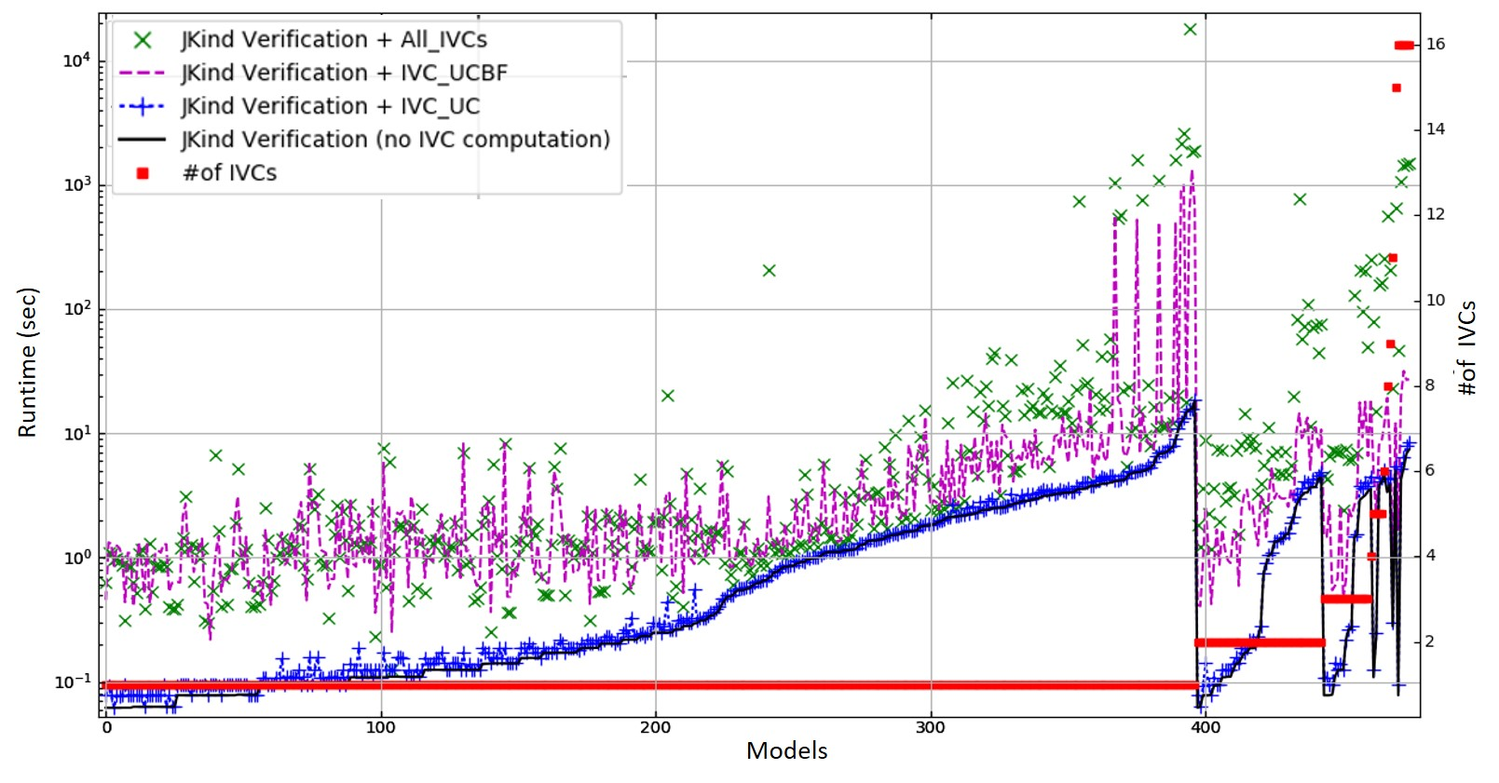
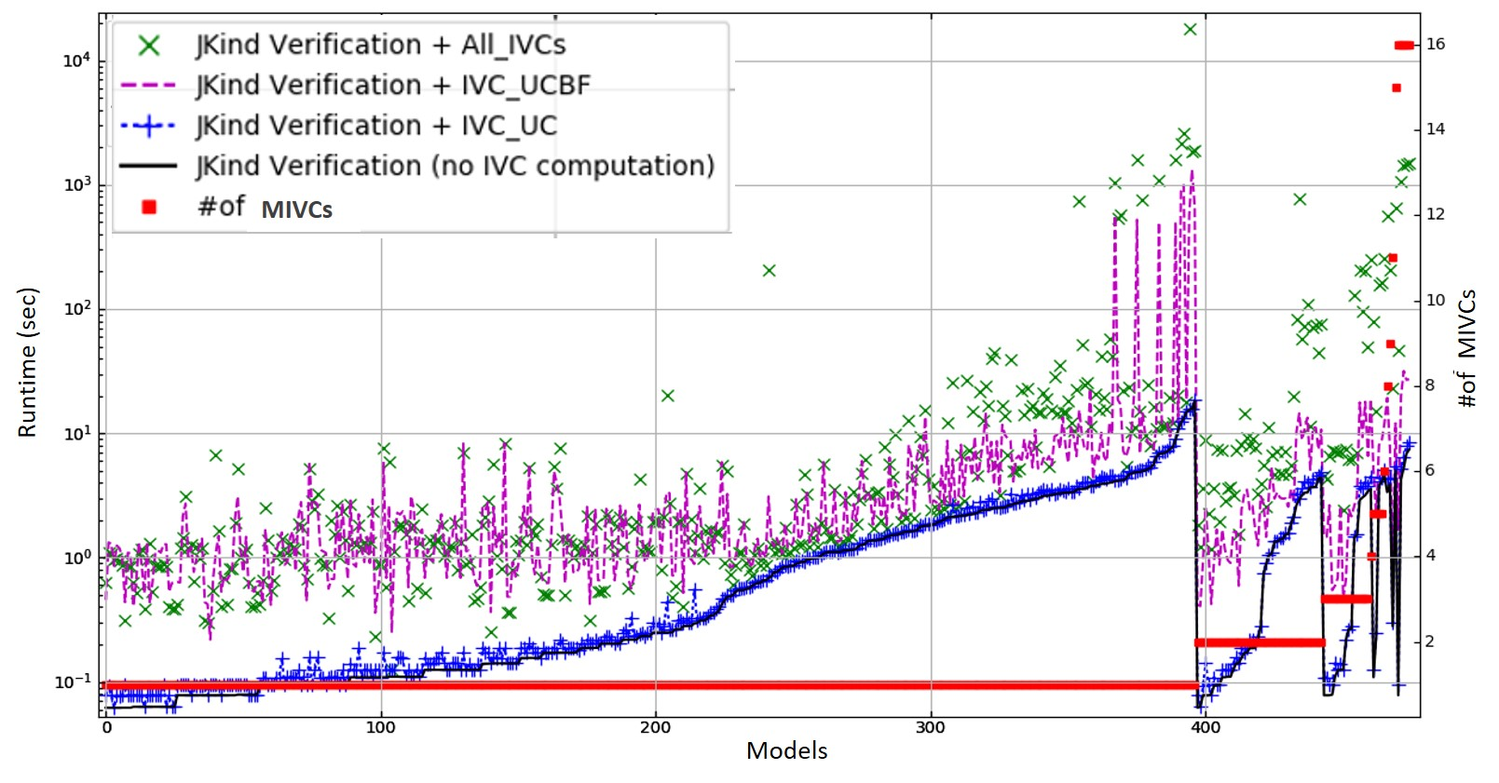
final changes

diff --git a/all_ivcs/all_ivcs_TEX/results.tex b/all_ivcs/all_ivcs_TEX/results.tex
@@ -1,4 +1,7 @@
-In this section, we examine our experimental results to address the research questions defined in the experiment.
+
+
+In this section, we examine our
+experimental results to address the research questions defined in the experiment.
 
 \begin{figure}[t]
  \centering
@@ -9,12 +12,15 @@ In this section, we examine our experimental results to address the research que
 \end{figure}
 %\vspace{0.1in}
 
-\subsubsection{RQ1:} 
+\subsubsection{RQ1:}
 
 To address RQ1, we measured the performance overhead of the various IVC algorithms against the baseline time
-necessary to find a proof using inductive model checking. Fig. \ref{fig:performance} provides an overview of the  overhead of the \aivcalg ~algorithm in comparison to the \ucalg ~and \ucbfalg\ algorithms.  In the figure, each curve is ranked along the x-axis according to the time required for the algorithm to terminate for each analysis problem.  Table \ref{tab:runtime} provides a summary of the computation time and the overhead of different algorithms.  As is evidenced by Fig. \ref{fig:performance}, the \ucalg\  algorithm imposes a negligible overhead over the baseline proof time, whereas both the \ucbfalg\ algorithm and \aivcalg\ algorithms add a substantial penalty over the baseline proof time.  We examine the performance of the \aivcalg\ algorithm both in terms of the time required to find all IVCs and also the time required divided by the number of IVCs found.  Somewhat surprisingly, for the majority of models, the latter measure outperforms the \ucbfalg\ algorithm for the majority of the models in the benchmark suite.
+necessary to find a proof using inductive model checking. Fig. \ref{fig:performance} provides an overview of the  overhead of the \aivcalg ~algorithm in comparison to the \ucalg ~and \ucbfalg\ algorithms.  In the figure, each curve is ranked along the x-axis according to the time required for the algorithm to terminate for each analysis problem.  Table \ref{tab:runtime} provides a summary of the computation time and the overhead of different algorithms.
+  As is evidenced by Fig. \ref{fig:performance}, the \ucalg\  algorithm imposes a negligible overhead over the baseline proof time, whereas both the \ucbfalg\ algorithm and \aivcalg\ algorithms add a substantial penalty over the baseline proof time.
+    We examine the performance of the \aivcalg\ algorithm both
+     in terms of the time required to find all MIVCs and also the time required divided by the number of MIVCs found.  Somewhat surprisingly, the latter measure outperforms the \ucbfalg\ algorithm for the majority of the models in the benchmark suite.
 
-The \aivcalg\ algorithm requires approximately 3.4x more time than the \ucbfalg\ algorithm, calculated in the following way: we measure the ratio of time required for each model for both metrics, then we take the mean of this ratio for all models.  It is important to note that these performance curves are sensitive to the timeout values chosen for individual proof-searches for IVCs (the \getivc\ step in \aivcalg\ and line 3 in the ``brute force'' algorithm in~\cite{Ghass16}).  This aspect will be discussed in more detail in Section~\ref{sec:experiment-discussion}.
+The \aivcalg\ algorithm requires approximately 3.4x more time than the \ucbfalg\ algorithm, calculated in the following way: we measure the ratio of time required for each model for both metrics, then we take the mean of this ratio for all models.  It is important to note that these performance curves are sensitive to the timeout values chosen for individual proof-searches for IVCs (the \getivc\ step in \aivcalg\ and line 3 in the \ucbfalg\ algorithm in~\cite{Ghass16}).  This aspect will be discussed in more detail in Section~\ref{sec:experiment-discussion}.
 
 %The \aivcalg ~algorithm could have had better (worse) performance
 % if timeout had been set lower (higher), which caused the average runtime (overhead) of the \aivcalg ~shown in Table \ref{tab:runtime} (Table \ref{tab:overhead}) to be $\thicksim 3$ times more than \ucbfalg .
@@ -70,7 +76,7 @@ Figure~\ref{fig:modelsize} shows two distinct trends.  First, for models whose b
  \centering
   \includegraphics[width=\textwidth]{figs/size.jpg}
   \vspace{-0.2in}
-  \caption{Runtime of different computations along with the number of IVCs}
+  \caption{Runtime of different computations along with the number of MIVCs}
   \label{fig:modelsize}
   \vspace{-0.2in}
 \end{figure}
@@ -86,6 +92,23 @@ Figure~\ref{fig:modelsize} shows two distinct trends.  First, for models whose b
 %although it does not guarantee minimality.
 %Fig. \ref{fig:ratio} also demonstrates that average cost of \aivcalg ~per IVC is very close to average cost of finding one IVC by \ucbfalg. Given the fact that the size of IVCs generated by \ucalg ~is very close to the ones generated by \ucbfalg, makes the \ucalg ~algorithm
 %more efficient for the \getivc ~procedure.
+\begin{table}
+  \caption{Size of IVCs from different computations}
+   \vspace{-0.1in}
+  \centering
+  \begin{tabular}{ |c||c|c|c|c| }
+    \hline
+     algorithm & min & max & mean & stdev \\[0.5ex]
+
+    \hline
+    \aivcalg   & 1 & 159 & 12.462 & 1.1684 \\[0.5ex]
+    \ucalg   & 1 & 141 & 12.754 & 16.000 \\[0.5ex]
+    \ucbfalg &   1 & 141 &  12.185 & 16.107\\[0.5ex]
+    \texttt{minimum IVC} & 1  & 134  & 12.078 & 15.550 \\[0.5ex]
+    \hline
+    \end{tabular}
+  \label{tab:ivcsize}
+\end{table}
 
  %\begin{figure}
 % \centering
@@ -97,29 +120,11 @@ Figure~\ref{fig:modelsize} shows two distinct trends.  First, for models whose b
 \subsection {Discussion}
 \label{sec:experiment-discussion}
 %\ela{rewrite...\\}
-\begin{table}
-  \caption{Size of IVCs from different computations}
-   \vspace{-0.1in}
-  \centering
-  \begin{tabular}{ |c||c|c|c|c| }
-    \hline
-     algorithm & min & max & mean & stdev \\[0.5ex]
+The experiment demonstrates that for most of the example models, finding all minimal IVCs is within the same ballpark as finding a single minimal IVC in terms of computation time.  However, these results are dependent on the number of minimal IVCs that are associated with the property: the more MIVCs associated with a property, the higher the expense of \aivcalg\ as compared to the \ucbfalg\ algorithm.
 
-    \hline
-    \ucalg   & 1 & 141 & 12.754 & 16.000 \\[0.5ex]
-    \ucbfalg &   1 & 141 &  12.185 & 16.107\\[0.5ex]
-    \aivcalg   & 1 & 159 & 12.462 & 1.1684 \\[0.5ex]
-    \aivcalg\ minimum IVC & 1  & 134  & 12.078 & 15.550 \\[0.5ex]
-    \hline
-    \end{tabular}
-  \label{tab:ivcsize}
-\end{table}
+An important aspect of the performance comparison involves the timeout value chosen for individual IVC computations performed by \getivc\ within the \aivcalg\ algorithm and also the behavior of the SMT solvers with different sets of activation literals.  Each time we call \getivc\ we attempt to do a ``fresh'' proof from a new set of activation literals.  As we approach minimal IVCs, these proofs can become substantially harder for the solver to determine than the original proof, often involving more lemmas for information that was originally present in the model.  Thus, for complex models, it often happens that we reach the `timeout' case in both the \aivcalg\ and \ucbfalg\ algorithms, which may cause both algorithms to reject valid IVC solutions that are smaller than what is reported as a minimal IVCs, since both algorithms treat timeout-as-failure.  We have empirically set timeout values for a given proof search to (60 seconds $+$ 10 $\times$ {\em proof-time}) for the initial proof over the whole model. Our timeout threshold is somewhat arbitrary, and it is likely that the performance and minimality results would change if a different threshold was chosen.
 
-The experiment demonstrates that for most of the example models, finding all minimal IVCs is within the same ballpark as finding a single minimal IVC in terms of computation time.  However, these results are dependent on the number of minimal IVCs that are associated with the property: the more MIVCs associated with a property, the higher the expense of \aivcalg\ as compared to the \ucbfalg\ algorithm.  
-
-An important aspect of the performance comparison involves the timeout value chosen for individual IVC computations performed by \getivc\ within the \aivcalg\ algorithm and also the behavior of the SMT solvers with different sets of activation literals.  Each time we call \getivc\ we attempt to do a ``fresh'' proof from a new set of activation literals.  As we approach minimal IVCs, these proofs can become substantially harder for the solver to determine than the original proof, often involving more lemmas for information that was originally present in the model.  Thus, for complex models, it often happens that we reach the `timeout' case in both the \aivcalg\ and \ucbfalg\ algorithms, which may cause both algorithms to reject valid IVC solutions that are smaller than what is reported as a minimal IVCs, since both algorithms treat timeout-as-failure.  We have empirically set timeout values for a given proof search to 60 seconds + 10 $*$ {\em proof-time} for the initial proof over the whole model. Our timeout threshold is somewhat arbitrary, and it is likely that the performance and minimality results would change if a different threshold was chosen.  Table~\ref{tab:ivcsize} shows that although the minimum IVC size is smaller with the \aivcalg, it is very close to the \ucbfalg\ result.
-
-Worse, because the \ucbfalg\ and \aivcalg\ algorithms submit different profiles in terms of activation literals, the solvers sometimes can solve an IVC problem for one algorithm but not the other.  This leads to some cases where the \ucbfalg\ algorithm finds a {\em smaller} IVC than the \aivcalg\ algorithm, because the \aivcalg\ algorithm times out attempting to find a MIVC that was found by the \ucbfalg.  This is shown in Fig.~\ref{fig:min}, where in 14 out of 476 models, \ucbfalg\ finds a smaller MIVC than the minimum IVC found by \aivcalg.  Of course, in 11 other cases,the \aivcalg\ finds substantially smaller minimum IVCs than \ucbfalg.  
+Worse, because the \ucbfalg\ and \aivcalg\ algorithms submit different profiles in terms of activation literals, the solvers sometimes can solve an IVC problem for one algorithm but not the other.  This leads to some cases where the \ucbfalg\ algorithm finds a {\em smaller} IVC than the \aivcalg\ algorithm, because the \aivcalg\ algorithm times out attempting to find a MIVC  that was found by the \ucbfalg.  This is shown in Fig.~\ref{fig:min}, where in 14 out of 476 models, \ucbfalg\ has found a smaller MIVC  than the minimum IVC found by \aivcalg.  Of course, in many more cases, the \aivcalg\ and \ucbfalg\ algorithms computed the same size of IVCs because the majority of the models only contain one minimal IVC. However, for 11 models,~\aivcalg\ has found a smaller minimum IVC than the \ucbfalg .
 
  \begin{figure}
  \centering

diff --git a/all_ivcs/all_ivcs_TEX/eval.tex b/all_ivcs/all_ivcs_TEX/eval.tex
@@ -10,10 +10,10 @@ This section evaluates our approach by addressing the following research questio
 
 \subsection{Analytical Results}
 \label{sec:res}
-This section addresses the aforementioned research questions briefly describing the way the results were analyzed. In general, for timing analyses, from all 13 configurations, we only considered the settings where both \texttt{PDR} and \texttt{K-induction} engines were activated. Since this configuration is a default setting in \texttt{\texttt{JKind}}, we only care about timing while both engines are employed. Therefore, $(4 \times 405) = 1620$ of all 5265 runs have been analyzed to address time-efficiency questions.
+This section addresses the aforementioned research questions briefly describing the way the results were analyzed. In general, for timing analyses, from all 13 configurations, we only considered the settings where both \texttt{PDR} and \texttt{$K$-induction} engines were activated. Since this configuration is a default setting in \texttt{\texttt{JKind}}, we only care about timing while both engines are employed. Therefore, $(4 \times 405) = 1620$ of all 5265 runs have been analyzed to address time-efficiency questions.
 \ela{remove this line if removing the Result section: }
 Note that  the results of 10 models with unprovable properties were omitted in calculations. In addition,
- while analyzing support sets, \texttt{K-induction} settings that timed out were not considered because they failed to prove the properties.
+ while analyzing support sets, \texttt{$K$-induction} settings that timed out were not considered because they failed to prove the properties.
 
 In the following, we will address the research questions from different perspectives, in most of which significance testing along with Cohen's $d$ effect size (ES), has been used. Also, dissimilarity between sets was measured using Jaccard distance:
 \begin{definition}{\emph{Jaccard distance:}}
@@ -53,7 +53,7 @@ In the following, we will address the research questions from different perspect
 }
  \vspace{6pt}
 
-In addition to overhead, it is also important to know how efficiently \texttt{ReduceSupport} performs on computing set of support in comparison with \texttt{JSupport}. For 405 models, runtime of support computation in the configurations where both \texttt{K-induction} and \texttt{PDR} were activated has been collected. Fig~\ref{fig:runtimez3} and Fig~\ref{fig:runtimeall} visualize the results. Fig~\ref{fig:runtimez3} shows the running time of \texttt{\texttt{JKind}} with and without support computation while employing \texttt{Z3}. As you can see in Fig~\ref{fig:runtimeall}, \texttt{JSupport} is a lot more time-consuming than all \texttt{ReduceSupport} configurations.
+In addition to overhead, it is also important to know how efficiently \texttt{ReduceSupport} performs on computing set of support in comparison with \texttt{JSupport}. For 405 models, runtime of support computation in the configurations where both \texttt{$K$-induction} and \texttt{PDR} were activated has been collected. Fig~\ref{fig:runtimez3} and Fig~\ref{fig:runtimeall} visualize the results. Fig~\ref{fig:runtimez3} shows the running time of \texttt{\texttt{JKind}} with and without support computation while employing \texttt{Z3}. As you can see in Fig~\ref{fig:runtimeall}, \texttt{JSupport} is a lot more time-consuming than all \texttt{ReduceSupport} configurations.
 
 \begin{figure}
   \centering
@@ -132,14 +132,14 @@ Since \texttt{JSupport}, with a great percentage, most of the time computed the 
 %\begin{figure}
 %  \centering
 %  \includegraphics[width=\textwidth]{figs/minimality_kind.png}
-%  \caption{\small{Minimality comparison of \texttt{K-induction}}}\label{fig:minkind}
+%  \caption{\small{Minimality comparison of \texttt{$K$-induction}}}\label{fig:minkind}
 %\end{figure}
 %
 %
 %\begin{figure}
 %  \centering
 %  \includegraphics[width=\textwidth]{figs/minimality_both.png}
-%  \caption{\small{Minimality comparison of \texttt{K-induction} and \texttt{PDR} working together}}\label{fig:minboth}
+%  \caption{\small{Minimality comparison of \texttt{$K$-induction} and \texttt{PDR} working together}}\label{fig:minboth}
 %\end{figure}
 %
 %
@@ -149,7 +149,7 @@ Since \texttt{JSupport}, with a great percentage, most of the time computed the 
 %     \hline
 %     configuration & min & max & mean & stdev & effect size& p-value \\[0.5ex]
 %     \hline\hline
-%     K-induction & -2 & 28 & 0.542 & 1.831 & 0 & < 0.0\\[0.5ex]
+%     $K$-induction & -2 & 28 & 0.542 & 1.831 & 0 & < 0.0\\[0.5ex]
 %     PDR & -2 & 28 & 0.677 & 1.819 & 0 & < 0.0\\[0.5ex]
 %     Both engines & -2 & 28 & 0.661 & 1.751 & 0 & < 0.0\\[0.5ex]
 %     \hline
@@ -177,7 +177,7 @@ Since \texttt{JSupport}, with a great percentage, most of the time computed the 
      \hline
      configuration & mean & stdev & ES & p-value \\[0.5ex]
      \hline\hline
-     K-induction  & 0.542 & 1.831 & 0.80 & < 0.00001\\[0.5ex] %sample_size = 1132 z = -8.03
+     $K$-induction  & 0.542 & 1.831 & 0.80 & < 0.00001\\[0.5ex] %sample_size = 1132 z = -8.03
      PDR & 0.677 & 1.819 & 0.73 & < 0.00001\\[0.5ex] %sample_size = 1580 (39.74)  z = -28.9
      Both engines & 0.661 & 1.751 & 0.76 & < 0.00001\\[0.5ex]
      \hline
@@ -232,7 +232,7 @@ Since \texttt{JSupport}, with a great percentage, most of the time computed the 
   \item H1: \texttt{ReduceSupport} in all configurations computes sets that are very close to minimal (with an average Jaccard distance less than 0.2).
 \end{itemize}
 
-Table~\ref{tab:jsupconf} represents the result of this analysis; for example, configuration \emph{(Z3, Both)}, shows that \texttt{\texttt{JKind}} with \texttt{Z3} and both \texttt{K-induction} and \texttt{PDR} engines has an average Jaccard distance of 0.106 (in 405 models) from \texttt{JSupport}.
+Table~\ref{tab:jsupconf} represents the result of this analysis; for example, configuration \emph{(Z3, Both)}, shows that \texttt{\texttt{JKind}} with \texttt{Z3} and both \texttt{$K$-induction} and \texttt{PDR} engines has an average Jaccard distance of 0.106 (in 405 models) from \texttt{JSupport}.
 
 
 \begin{table}
@@ -244,19 +244,19 @@ Table~\ref{tab:jsupconf} represents the result of this analysis; for example, co
     % sample size = 405 - 18 = 387    sample size for k_ind = 405 - 18 - 112 = 275
     %
     Z3, Both  & 0.106 & 0.155 & 0.49 & < 0.00001\\[0.5ex] %z = 11.93
-    Z3, K-induction & 0.116 & 0.168 & 0.50 & < 0.00001\\[0.5ex]
+    Z3, $K$-induction & 0.116 & 0.168 & 0.50 & < 0.00001\\[0.5ex]
     z3, PDR  & 0.102 & 0.151 & 0.64 & < 0.00001\\[0.5ex]
     \hline
     Yices, Both & 0.104 & 0.152 & 0.63& < 0.00001 \\[0.5ex]
-    Yices, K-induction  & 0.114 & 0.166 & 0.52 & < 0.00001 \\[0.5ex]
+    Yices, $K$-induction  & 0.114 & 0.166 & 0.52 & < 0.00001 \\[0.5ex]
     Yices, PDR  & 0.098 & 0.147 & 0.69 & < 0.00001\\[0.5ex]
     \hline
     SMTInterpol, Both  & 0.103 & 0.152 & 0.63 & < 0.00001\\[0.5ex]
-    SMTInterpol, K-induction  & 0.115 & 0.167 & 0.49 & < 0.00001\\[0.5ex]
+    SMTInterpol, $K$-induction  & 0.115 & 0.167 & 0.49 & < 0.00001\\[0.5ex]
     SMTInterpol, PDR  & 0.101 & 0.149 & 0.66 & < 0.00001\\[0.5ex]
     \hline
     MathSAT, Both  & 0.106 & 0.156 & 0.60 & < 0.00001\\[0.5ex]
-    MathSAT, K-induction & 0.115 & 0.167 &0.51 & < 0.00001\\[0.5ex]
+    MathSAT, $K$-induction & 0.115 & 0.167 &0.51 & < 0.00001\\[0.5ex]
     MathSAT, PDR & 0.100 & 0.148 & 0.68  &< 0.00001\\[0.5ex]
     \hline
   \end{tabular}
@@ -359,7 +359,7 @@ Table~\ref{tab:jsupconf} represents the result of this analysis; for example, co
   \label{tab:eff-comp-jsup}
 \end{table}
 
-%For calculations, we considered all settings where both \texttt{K-induction} and \texttt{PDR} were activated
+%For calculations, we considered all settings where both \texttt{$K$-induction} and \texttt{PDR} were activated
 % then in for all 405 models in everything, we collected runtime info, then calculated min/max/avg/stdev between them
 % in other words, there were 4 settings to be considered: z3_both, yices_both, mathsat_both, smtinterpol_both
 

diff --git a/all_ivcs/all_ivcs_TEX/experiments.tex b/all_ivcs/all_ivcs_TEX/experiments.tex
@@ -6,7 +6,7 @@
 \noindent\fbox{\parbox{\textwidth}{#1}}
 \vspace{6pt}
 }
-We are interested in examining the {\em efficacy} and {\em efficiency} of generating all minimal inductive validity cores, as compared to algorithms for computing a {\em single approximately minimal} IVC, and a {\em minimal IVC} as implemented in~\cite{Ghass16} using the \ucalg\ and \ucbfalg\ algorithms, respectively.  We would also like to know how performance is affected by the size of models and number of minimal IVCs.  Finally, we are also interested in determining whether the AIVC approach generates {\em smaller} cores than are generated by the \ucbfalg\ algorithm that generates a single \mivc.  %If the AIVC algorithm is similarly efficient to \ucbfalg\ then several analyses can be performed that would not be possible with a single \mivc\computed from the \ucbfalg\ algorithm.
+We are interested in examining the {\em efficacy} and {\em efficiency} of generating all minimal inductive validity cores, as compared to algorithms for computing a {\em single approximately minimal} IVC, and a {\em minimal IVC} as implemented in~\cite{Ghass16} using the \ucalg\ and \ucbfalg\ algorithms, respectively.  We would also like to know how performance is affected by the size of models and number of minimal IVCs.  Finally, we are also interested in determining whether the \aivcalg\ algorithm generates {\em smaller} cores than are generated by the \ucbfalg\ algorithm that generates a single MIVC.  %If the AIVC algorithm is similarly efficient to \ucbfalg\ then several analyses can be performed that would not be possible with a single \mivc\computed from the \ucbfalg\ algorithm.
 %
 %
 Therefore, we investigate the following research questions:
@@ -23,7 +23,7 @@ Therefore, we investigate the following research questions:
 \subsection{Experimental Setup}
 Our experiment used the same benchmark suite as \cite{Ghass16} to enable straightforward comparison between the approaches. The benchmark contains 476 Lustre models  from~\cite{Hagen08:FMCAD} and \cite{QFCS15:backes,hilt2013}.
 Most of the benchmark models from~\cite{Hagen08:FMCAD} are small (10kB or less, with 6-40 equations) and include a range of hardware benchmarks and software problems involving counters that are difficult to solve inductively.
-The models from \cite{QFCS15:backes,hilt2013} are industrial models with over 600 equations and each are approximately 80kB in size.  Each benchmark model has a single property to analyze.  For each test model, we computed \aivcalg , \ucalg , and \ucbfalg ~algorithms in a configuration with the \texttt{Z3} solver and the ``fastest'' mode of \texttt{JKind} (which involves running the K-induction and PDR engines in parallel and terminating when a solution is found). The experiments were run on an  Intel(R) i5-4690, 3.50GHz, 16 GB memory machine running Windows 10.
+The models from \cite{QFCS15:backes,hilt2013} are industrial models with over 600 equations and each are approximately 80kB in size.  Each benchmark model has a single property to analyze.  For each test model, we computed \aivcalg , \ucalg , and \ucbfalg ~algorithms in a configuration with the \texttt{Z3} solver and the ``fastest'' mode of \texttt{JKind} (which involves running the $k$-induction and PDR engines in parallel and terminating when a solution is found). The experiments were run on an  Intel(R) i5-4690, 3.50GHz, 16 GB memory machine running Windows 10.
 %\footnote{\noindent ~The benchmarks, all raw experimental results,
 %  and computed data are available on \cite{expr}.}
 

diff --git a/all_ivcs/all_ivcs_TEX/main.tex b/all_ivcs/all_ivcs_TEX/main.tex
@@ -82,7 +82,7 @@
 \newcommand{\ucbfalg}{\texttt{\small{IVC\_UCBF}}}
 
 
-\title{Efficient Generation of All Inductive Validity Cores}
+\title{Efficient Generation of All Minimal Inductive Validity Cores}
 
 \author{Elaheh Ghassabani\inst{1}
 \and Michael W. Whalen\inst{1}
@@ -100,10 +100,13 @@ Cedar Rapids, IA, 52498, USA\\ \email{ andrew.gacek@rockwellcollins.com}
 \maketitle
 
 \begin{abstract}
-Symbolic model checkers can construct proofs of safety properties over complex models, but the results reported when a proof succeeds do not generally provide much insight to the user.  Recently, the notion of an {\em inductive validity core} (IVC) was introduced in order to trace a property to a minimal set of model elements necessary for proof.  IVCs can be used for several engineering tasks, including traceability, vacuity detection, and as a completeness metric for requirements.  
-%Previous work showed that it was computationally inexpensive to find an approximately minimal IVCs, and somewhat more expensive to compute a minimal IVC.
+Symbolic model checkers can construct proofs of safety properties over complex models, but the results reported when a proof succeeds do not generally provide much insight to the user.  Recently, the notion of a minimal {\em Inductive Validity Core} (IVC) was introduced to trace a property to a minimal set of model elements necessary for proof.  Minimal IVCs can be used for several engineering tasks, including traceability, vacuity detection, and as a coverage metric for property-based verification. Such applications usually rely on the minimality of IVCs. However, existing algorithms for generating a minimal IVC are either expensive or able to find an approximately
+minimal IVC.
 
-In this paper, we describe an approach for finding {\em all} IVCs for a given property.  In so doing, several additional analyses become possible, including regression analysis for testing and proof, determination of the minimum (as opposed to minimal) number of model elements necessary for proof, and the systematic examination of {\em diversity} of model elements leading to proof, which can be used for analyzing the fault tolerance of models.  We prove the correctness and completeness of our technique and benchmark our algorithm against single IVC-generating algorithms.  In many cases, the computational cost of finding all minimal IVCs is similar to finding a single minimal IVC.
+In addition to minimality, computing all minimal IVCs of a given
+property is an interesting problem that provides several useful analyses, including regression analysis for testing and proof, determination of the minimum (as opposed to minimal) number of model elements necessary for proof, and the systematic examination of {\em diversity} of model elements leading to proof, which can be used for analyzing the fault tolerance of models.
+
+This paper proposes an efficient method for finding {\em all minimal} IVCs of a given property. We prove the correctness and completeness of our technique and benchmark our algorithm against existing IVC-generating algorithms.  We show that, in many cases, the computational cost of finding all minimal IVCs by our technique is similar to finding a single minimal IVC using existing algorithms.
 \end{abstract}
 
 \keywords{Inductive Validity Cores, UNSAT-core generation, SMT-based model checking, Inductive proofs}

diff --git a/all_ivcs/all_ivcs_TEX/introduction.tex b/all_ivcs/all_ivcs_TEX/introduction.tex
@@ -4,8 +4,9 @@ Most modern sequential model checking techniques for safety properties, includin
 
 On the other hand, there many situations in which properties can be proved, but systems still will not perform as intended.  Issues such as vacuity~\cite{Kupferman03:Vacuity}, incorrect environmental assumptions~\cite{Whalen07:FMICS}, and errors either in English language requirements or formalization~\cite{Pike06:axioms} can all lead to failures of ``proved'' systems.  Thus, even if proofs are established, one must approach verification with skepticism.
 
-Recently, Ghassabani et al.~\cite{Ghass16} introduced the idea of {\em inductive validity cores} (IVCs) in order to provide additional information with proofs.  The idea lifts UNSAT cores~\cite{zhang2003extracting} to the level of sequential model checking algorithms using induction.  Informally, if a model is viewed as a conjunction of constraints, a minimal IVC (MIVC) is a set of constraints that is sufficient to construct a proof such that if any constraint is removed, the property is no longer valid. IVCs and MIVCs can be used for several purposes, including performing traceability between requirements and model constraints, assessing model coverage, and explanation of unsatisfiable test obligations when using model checkers for test case generation.%~\mike{should we expand these?}
-This work presented two algorithms: \ucalg, which computes an approximately minimal IVC core that is computationally inexpensive, and \ucbfalg, an algorithm that produces a MIVC but is considerably more expensive to compute. %\ela{I have hard time reading the last sentence. Is the grammar correct?}
+Recently, Ghassabani et al.~\cite{Ghass16} introduced the idea of {\em Inductive Validity Cores} (IVCs) in order to provide additional information with proofs.  The idea lifts UNSAT cores~\cite{zhang2003extracting} to the level of sequential model checking algorithms using induction.  Informally, if a model is viewed as a conjunction of constraints, a minimal IVC (MIVC) is a set of constraints that is sufficient to construct a proof such that if any constraint is removed, the property is no longer valid. IVCs and MIVCs can be used for several purposes, including performing traceability between requirements and model constraints, assessing model coverage, and explanation of unsatisfiable test obligations when using model checkers for test case generation. This work presented two algorithms: \ucalg, which computes an approximately minimal IVC that is computationally inexpensive, and \ucbfalg,
+an algorithm that produces a
+MIVC but is considerably more expensive to compute.
 %
 The IVC idea shares many similarities with approaches for computing minimal lemma sets for inductive proofs (such as is performed for inductive proof certificates~\cite{piskac2016, ivrii2014small}), and in fact the \ucalg\ algorithm performs a minimal lemma set computation.  However, there is a substantive difference: to find a guaranteed minimal set of constraints, it is usually necessary to find new proofs involving {\em new lemmas} not used in the original proof, which accounts for the expense of the \ucbfalg\ algorithm.
 

diff --git a/all_ivcs/all_ivcs_TEX/conclusion.tex b/all_ivcs/all_ivcs_TEX/conclusion.tex
@@ -1,10 +1,10 @@
 \section{Conclusions \& Future Work}
 \label{sec:conc}
 The idea of extracting a minimal IVC for a given property, and applications for doing so was recently introduced in \cite{Ghass16}.  However, a single IVC often does not provide a complete picture of the traceability from a property to a model.  In this paper, we have addressed the problem of extracting {\em all minimal} IVCs. We have shown
-the correctness and completeness of our method and algorithm.  In addition, we have a substantial evaluation that shows that the performance of finding all minimal IVCs is (on average) 3.4x more expensive than finding a single minimal IVC.
+the correctness and completeness of our method and algorithm.  In addition, we have a substantial evaluation that shows that the performance of finding all minimal IVCs using our method is (on average) 3.4x more expensive than finding a single minimal IVC using existing methods.
 
-Our method is inspired by a recent work in the domain of satisfiability analysis \cite{marco2016fast}. One interesting future direction is to devise similar \mivc\ enumeration algorithms based on other studies on MUSes extraction such as \cite{Bacchus2016, nadel2014accelerated}.  We are also looking into improving our implementation by using more  efficient methods for the \isadeq ~and \getivc ~modules used by our algorithm. Another interesting direction is to parallelize the enumeration process: it is certainly possible to ask for multiple distinct maximal models to be solved in parallel, though this may result in unnecessary work performed by some of the parallel solvers.
+Our method is inspired by a recent work in the domain of satisfiability analysis \cite{marco2016fast}. One interesting future direction is to devise similar MIVC enumeration algorithms based on other studies on MUSes extraction such as \cite{Bacchus2016, nadel2014accelerated}.  We are also looking into improving our implementation by using more  efficient methods for the \isadeq ~and \getivc ~modules used by our algorithm. Another interesting direction is to parallelize the enumeration process: it is certainly possible to ask for multiple distinct maximal models to be solved in parallel, though this may result in unnecessary work performed by some of the parallel solvers.
 
 We also plan to investigate additional applications of the idea for software engineering activities.  When performing {\em compositional verification} of a software architecture, All-IVC techniques may be able to determine {\em minimal component sets} within an architecture that can satisfy a given set of requirements, which may be helpful for design-space exploration.
 %
-Finally, we are interested in adapting the notion of (all) validity cores for bounded model checking for use in quantifying how much of models have been explored by bounded analysis. 
+Finally, we are interested in adapting the notion of (all) validity cores for bounded model checking for quantifying how much of models have been explored by bounded analysis. 

diff --git a/all_ivcs/all_ivcs_TEX/background.tex b/all_ivcs/all_ivcs_TEX/background.tex
@@ -29,7 +29,7 @@ T$ means that $T_i$ is a top-level conjunct of $T$, and $S
 \subseteq T$ means all top-level conjuncts of $S$ are top-level
 conjuncts of $T$. When a top-level conjunct $T_i$ is removed from $T$, it is written as $T \setminus \{T_i\}$. Such a transition system can easily encode our example model in Section~\ref{sec:example}, where each equation defines a conjunct within $T$ that we will denote by the variable assigned; so, $T = \{$ {\small \texttt{a1\_below, a2\_below, a1\_above, a2\_above, one\_below, both\_above, doi\_on, on\_p}} $\}$.
 
-The idea behind finding an IVC for a given property $P$ \cite{Ghass16} is based on inductive proof methods used in SMT-based model checking, such as K-induction and IC3/PDR \cite{NFM2012:KaGaTiWh, amla2005analysis, Een2011:PDR}. Generally, an IVC computation technique aims to determine, for any subset $S \subseteq T$, whether $P$ is provable by $S$. Then, a minimal subset that satisfies $P$ is seen as a minimal proof explanation called a minimal Inductive Validity Core.
+The idea behind finding an IVC for a given property $P$ \cite{Ghass16} is based on inductive proof methods used in SMT-based model checking, such as $K$-induction and IC3/PDR \cite{NFM2012:KaGaTiWh, amla2005analysis, Een2011:PDR}. Generally, an IVC computation technique aims to determine, for any subset $S \subseteq T$, whether $P$ is provable by $S$. Then, a minimal subset that satisfies $P$ is seen as a minimal proof explanation called a minimal Inductive Validity Core.
 
 \begin{definition}{\emph{Inductive Validity Core (\ivc)\cite{Ghass16}:}}
   \label{def:ivc}
@@ -53,7 +53,7 @@ Note that, given $(I, T) \vdash P$, $P$ always has at least one \mivc, and it ma
 
 Fig.~\ref{fig:ivcs} illustrates these notions by a graphical representation of IVCs for property $P = (\small{\texttt{on\_p}})$ in the example presented in Section~\ref{sec:example}. As shown in the picture, this property has two distinct \mivc s, which means the model satisfies $P$ in two different ways:  \texttt{\{\{a1\_below, one\_below, doi\_on, on\_p\}, \{a2\_below, one\_below, doi\_on, on\_p\}\}}, This is because in the implementation, the DOI is turned on when either of the altimeters is below the threshold, while our property states that they both must be below.
 Note that there is a subset of model elements, $\{{\small \texttt{a1\_above, a2\_above, both\_above}}\}$, that does not show up in $AIVC(P)$. Elements in such a subset
-do not affect the satisfaction of $P$.  In the complete ASW model in~\cite{HCW02:ase-deviation} there are additional properties that use these elements, but they are not necessary for the discussion in this paper.   
+do not affect the satisfaction of $P$.  In the complete ASW model in~\cite{HCW02:ase-deviation} there are additional properties that use these elements, but they are not necessary for the discussion in this paper.
 
 %As you can see, distinct IVCs may have common elements.
 %The intersection of all \mivc s is called the \emph{must} set for $P$.

diff --git a/all_ivcs/all_ivcs_TEX/allivcs.tex b/all_ivcs/all_ivcs_TEX/allivcs.tex
@@ -341,7 +341,7 @@ From \cite{Ghass16}, it is computationally cheap to find an
 approximately minimal \ivc\ using the algorithm \ucalg; however, finding a {\em guaranteed}
 minimal \ivc\ using the \ucbfalg\ algorithm is computationally expensive.  For efficiency
 reasons, it is much better to use the approximate \ucalg\ algorithm to compute the set of
-all \mivc s.  The \ucbfalg\ algorithm attempts to repeatedly prove the property by brute-force removing elements (BF = ``brute force''), so does much of the work of Algorithm~\ref{alg:aivc} in a way that is not effective towards finding other IVCs.  The overhead of the \ucalg\ algorithm is on average 10\% over the baseline proof, as opposed to 882\% for the \ucbfalg\ algorithm.  In addition, the average increase in size of IVCs returned by \ucalg\ is approximately 10\% of the \ucbfalg\ algorithm. 
+all \mivc s.  The \ucbfalg\ algorithm attempts to repeatedly prove the property by brute-force removing elements (BF = ``brute force''), so does much of the work of Algorithm~\ref{alg:aivc} in a way that is not effective towards finding other IVCs.  The overhead of the \ucalg\ algorithm is on average 10\% over the baseline proof, as opposed to 882\% for the \ucbfalg\ algorithm.  In addition, the average increase in size of IVCs returned by \ucalg\ is approximately 10\% of the \ucbfalg\ algorithm.
 
 On the other hand, if \getivc ~does not return minimal adequate sets, at the end of the process,
 set $A$ may contain both \mivc s and some supersets of \mivc s. To make sure that the algorithm only returns

diff --git a/all_ivcs/all_ivcs_TEX/impl.tex b/all_ivcs/all_ivcs_TEX/impl.tex
@@ -43,7 +43,7 @@ we treat $S$ as an \emph{inadequate} set;
 otherwise results may be incorrect; i.e. sets that are not actually adequate may be reported as adequate.
 When we mark an indeterminate set $S$ as inadequate, line 13 will prune off $S$ and all its subsets from
 the search space.  This can occasionally lead to anomalies where the brute force algorithm (like \ucbfalg) discovers a {\em smaller}
-\mivc\ than is discovered by the \aivcalg ~procedure.  Note that this can happen regardless of the timeout threshold used
+MIVC than is discovered by the \aivcalg ~procedure.  Note that this can happen regardless of the timeout threshold used
 due to the lemma generation procedure; this aspect will be discussed in more detail in
 Section~\ref{sec:experiment-discussion}.
 
